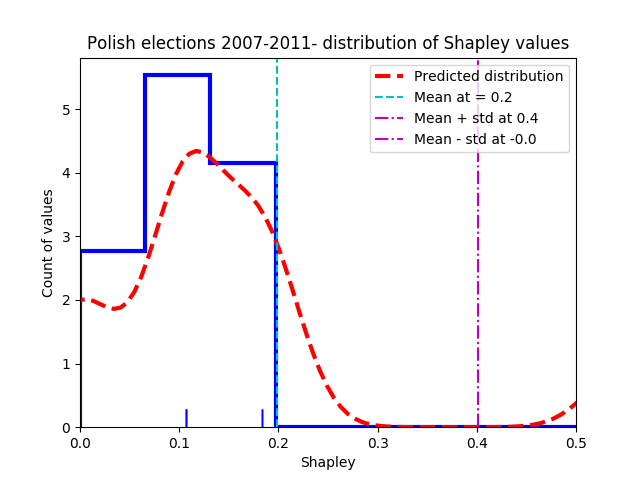
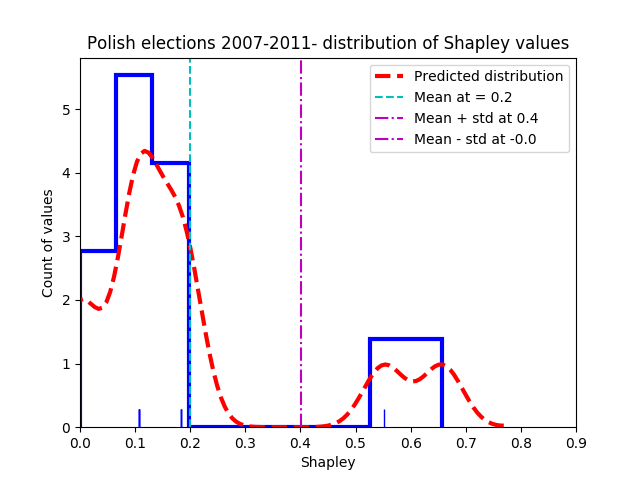
adding pattern mathcing

diff --git a/GoF/pattern.py b/GoF/pattern.py
@@ -1,0 +1,155 @@
+import numpy as np
+import matplotlib.pyplot as plt
+import matplotlib.animation as animation
+import os
+import re
+import cv2
+from collections import Counter, defaultdict
+import pandas as pd 
+import seaborn as sns 
+
+ON = 255
+OFF = 0
+vals = [ON, OFF]
+cumulative_statistics = Counter()
+running_statistics = defaultdict(list)
+
+horizontal_stencil = np.array([[0, 0, 0], [255, 255, 255], [0, 0, 0]])
+vertical_stencil = horizontal_stencil.T
+block = np.array([[255, 255], [255, 255]])
+tub = np.array([[0, 255, 0], [255, 0, 255], [0, 255, 0]])
+beehive1 = np.array([
+    [0, 255, 255, 0],
+    [255, 0, 0, 255],
+    [0, 255, 255, 0]
+])
+beehive2 = beehive1.T
+beacon1 = np.array([[255, 255, 0, 0], [255, 0, 0, 0], [0, 0, 0, 255],
+                    [0, 0, 255, 255]])
+beacon2 = np.array([[255, 255, 0, 0], [255, 255, 0, 0], [0, 0, 255, 255],
+                    [0, 0, 255, 255]])
+toad1 = np.array([[0, 255, 255, 255], [255, 255, 255, 0]])
+toad2 = np.array([[0, 0, 255, 0], [255, 0, 0, 255], [255, 0, 0, 255],
+                  [0, 255, 0, 0]])
+
+
+patterns_list = [('blinker', horizontal_stencil), ('blinker', vertical_stencil),
+                    ('beehive', beehive1), ('beehive', beehive2),
+                    ('tub', tub), ('block', block), ('beacon', beacon1),
+                    ('beacon', beacon2), ('toad', toad1), ('toad', toad2)]
+patterns_list = [(name, np.pad(pat, 1)) for name, pat in patterns_list]
+
+def count_pattern_on_grid(grid, pattern):
+    M = cv2.matchTemplate(grid.astype('uint8'), pattern.astype('uint8'),
+                          cv2.TM_SQDIFF)
+    R, C = np.where(M == 0)
+    return R, C
+
+
+def update(frameNum, img, grid, N, patterns_grid):
+    print('--- NEW ITERATION ---')
+    turn_statistics = Counter()
+    for pname, pattern in patterns_grid:
+        R, C = count_pattern_on_grid(grid, pattern)
+        if len(R) > 0 and (len(R) == len(C)):
+            cumulative_statistics[pname] += len(R)
+            turn_statistics[pname] += len(R)
+        else:
+            turn_statistics[pname] += 0    
+    print(cumulative_statistics)
+    for turn_pattern in turn_statistics:
+        running_statistics[turn_pattern].append(turn_statistics[turn_pattern])
+    # copy grid since we require 8 neighbors
+    # for calculation and we go line by line
+    newGrid = grid.copy()
+    for i in range(N):
+        for j in range(N):
+            # compute 8-neghbor sum
+            # using toroidal boundary conditions - x and y wrap around
+            # so that the simulaton takes place on a toroidal surface.
+            total = int(
+                (grid[i,
+                      (j - 1) % N] + grid[i,
+                                          (j + 1) % N] + grid[(i - 1) % N, j] +
+                 grid[(i + 1) % N, j] + grid[(i - 1) % N,
+                                             (j - 1) % N] + grid[(i - 1) % N,
+                                                                 (j + 1) % N] +
+                 grid[(i + 1) % N, (j - 1) % N] + grid[(i + 1) % N,
+                                                       (j + 1) % N]) / 255)
+
+            # apply Conway's rules
+            if grid[i, j] == ON:
+                if (total < 2) or (total > 3):
+                    newGrid[i, j] = OFF
+            else:
+                if total == 3:
+                    newGrid[i, j] = ON
+
+    # update data
+    if img is not None:
+        img.set_data(newGrid)
+    grid[:] = newGrid[:]
+    return img,
+
+
+def run_game():
+    N = 500
+    grid = np.random.choice(vals, N * N, p=[0.2, 0.8]).reshape(N, N)
+
+    fig, ax = plt.subplots()
+    img = ax.imshow(grid, interpolation='nearest')
+
+    update_interval = 50
+    its = 50
+    animate = False 
+    if animate:
+        ani = animation.FuncAnimation(fig,
+                                    update,
+                                    fargs=(img, grid, N, patterns_list),
+                                    frames=its,
+                                    repeat=False,
+                                    interval=update_interval)
+        plt.show()
+    else:
+        for i in range(its):
+            update(i, None, grid, N, patterns_list)
+
+
+    df = pd.DataFrame.from_dict(running_statistics)
+
+    df.to_csv(f'GOL-statistics-{its}_N_{N}.csv')
+
+
+# run_game()
+def plot_statistics(filename):
+    df = pd.read_csv(filename,  index_col=0)
+    fig, ax = plt.subplots()
+
+
+    window = 10
+    
+    barplot_vals, barplot_ticks = [], []
+    for pattern in df.columns:
+        barplot_vals.append(df[pattern].sum())
+        barplot_ticks.append(pattern)
+        print(len(df[pattern]), pattern)
+        data = df[pattern].rolling(window=window).std()
+        ax.plot(data, label=pattern)
+
+    ax.set_title("Running statistics of patters over the iterations")
+    ax.set_xlabel("Iteration")
+    ax.set_ylabel("Pattern occurences")
+    plt.legend()
+    plt.grid()
+    # plt.show()
+    svn = filename.replace('.csv', '')
+    plt.savefig(f'./GOF/{svn}_std_{window}.png')
+    
+    print(barplot_ticks)
+    fig2, ax2 = plt.subplots()
+    x = np.arange(len(barplot_ticks))
+    ax2.bar(x, barplot_vals)
+    ax2.set_xticks(x, barplot_ticks)
+    plt.show()
+        
+plot_statistics('GOL-statistics-50_N_500.csv')

diff --git a/Elections/coalitions.py b/Elections/coalitions.py
@@ -167,7 +167,7 @@ def statitstics_shapley(filenames):
                label=f'Mean - std at {np.around(mean-std,2)}',
                c='m',
                ls='-.')
-    ax.set_xlim([0.0, 0.5])
+    ax.set_xlim([0.0, 0.9])
     ax.legend()
     ax.set_ylabel("Count of values")
     ax.set_title("Polish elections 2007-2011- distribution of Shapley values")
